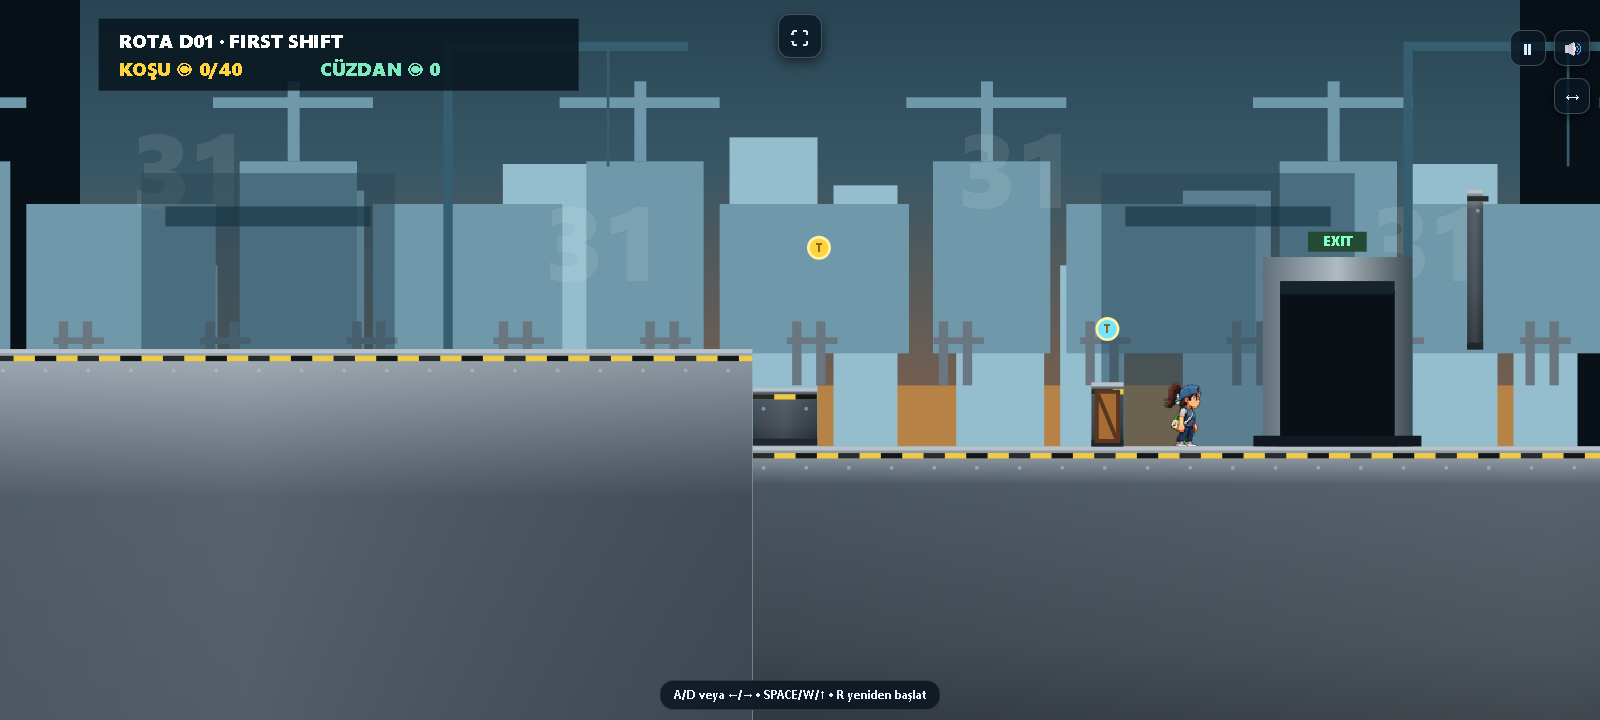
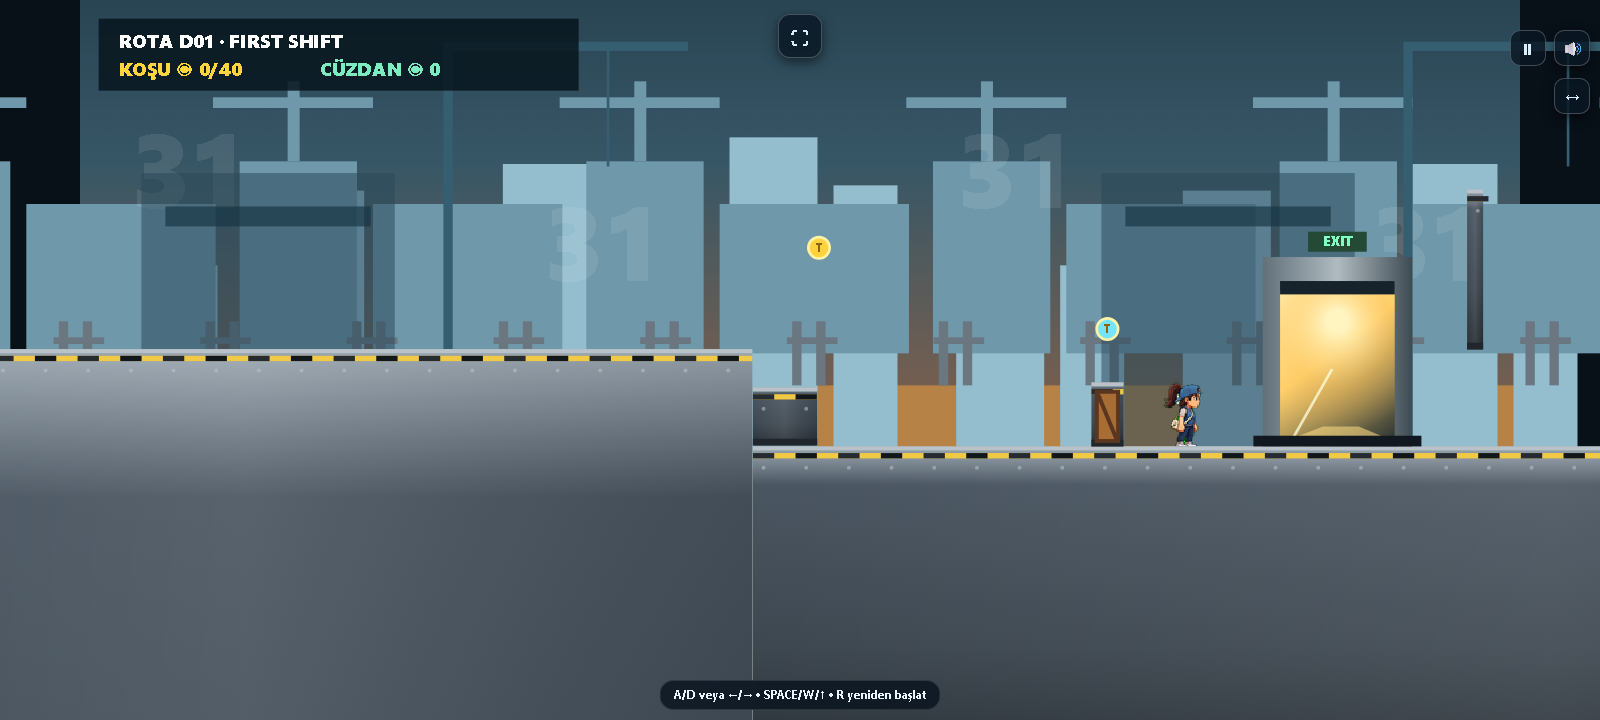
Make finish door states distinct

Changed region(s): [[0.7812, 0.3972, 0.875, 0.6111]]

diff --git a/js/a12-campaign.js b/js/a12-campaign.js
@@ -2490,8 +2490,39 @@ applyD09LogicRulesToRoutes();
     const closeK = tGate.phase === "closed" ? 1 : tGate.phase === "closing" ? Math.min(1, tGate.t / tGate.closeS) : 0;
     const left = x - 74, top = y - 142, w = 112, h = 142;
     c.save();
-    c.fillStyle = "#0a1116";
+    if (opts.shutterOnly) {
+      drawFinishDoorShutter(c, left, top, w, h, closeK);
+      c.restore();
+      return;
+    }
+    const interior = c.createLinearGradient(left + 11, top + 25, left + w - 11, y);
+    interior.addColorStop(0, closeK >= 1 ? "#101820" : "#fff3bb");
+    interior.addColorStop(.42, closeK >= 1 ? "#18252d" : "#ffd16d");
+    interior.addColorStop(1, closeK >= 1 ? "#05090d" : "#1d2a2f");
+    c.fillStyle = interior;
     c.fillRect(left + 11, top + 25, w - 22, h - 25);
+    if (closeK < .98) {
+      const glow = c.createRadialGradient(left + 56, top + 48, 8, left + 56, top + 62, 70);
+      glow.addColorStop(0, "rgba(255,247,198,.92)");
+      glow.addColorStop(.55, "rgba(255,195,89,.34)");
+      glow.addColorStop(1, "rgba(255,195,89,0)");
+      c.fillStyle = glow;
+      c.fillRect(left + 11, top + 25, w - 22, h - 25);
+      c.fillStyle = "rgba(255,222,132,.56)";
+      c.beginPath();
+      c.moveTo(left + 45, y - 15);
+      c.lineTo(left + 72, y - 15);
+      c.lineTo(left + 103, y - 2);
+      c.lineTo(left + 12, y - 2);
+      c.closePath();
+      c.fill();
+      c.strokeStyle = "rgba(255,255,221,.75)";
+      c.lineWidth = 2;
+      c.beginPath();
+      c.moveTo(left + 52, y - 58);
+      c.lineTo(left + 22, y - 5);
+      c.stroke();
+    }
     const frame = c.createLinearGradient(left, top, left + w, top);
     frame.addColorStop(0, "#61707a");
     frame.addColorStop(.5, "#b0bbc0");
@@ -2502,34 +2533,66 @@ applyD09LogicRulesToRoutes();
     c.fillRect(left, top, w, 18);
     c.fillStyle = "#17232a";
     c.fillRect(left + 13, top + 18, w - 26, 10);
-    const shutterH = (h - 31) * closeK;
-    if (shutterH > 0) {
-      const sy = top + 28;
-      const g = c.createLinearGradient(left + 15, sy, left + w - 15, sy);
-      g.addColorStop(0, "#465760");
-      g.addColorStop(.45, "#87949a");
-      g.addColorStop(1, "#34434b");
-      c.fillStyle = g;
-      c.fillRect(left + 15, sy, w - 30, shutterH);
-      c.strokeStyle = "#b7c2c7";
-      c.lineWidth = 1.5;
-      for (let yy = sy + 10; yy < sy + shutterH; yy += 13) {
-        c.beginPath();
-        c.moveTo(left + 17, yy);
-        c.lineTo(left + w - 17, yy);
-        c.stroke();
-      }
-    }
+    drawFinishDoorShutter(c, left, top, w, h, closeK);
     c.fillStyle = "#244a35";
     c.fillRect(left + 34, top - 19, 44, 15);
-    c.fillStyle = closeK >= 1 ? "#ff6b62" : "#80ffc0";
-    c.font = "900 10px system-ui";
+    c.fillStyle = closeK >= 1 ? "#ff5148" : "#80ffc0";
+    c.font = closeK >= 1 ? "900 8px system-ui" : "900 10px system-ui";
     c.textAlign = "center";
-    c.fillText("EXIT", left + 56, top - 8);
+    c.fillText(closeK >= 1 ? "KAPANDI" : "EXIT", left + 56, top - 8);
     c.textAlign = "left";
     c.fillStyle = "#111820";
     c.fillRect(left - 7, y - 8, w + 14, 8);
     c.restore();
+  }
+  function drawFinishDoorShutter(c, left, top, w, h, closeK) {
+    const shutterH = (h - 31) * closeK;
+    if (shutterH <= 0) return;
+    const sy = top + 28;
+    const panelW = w - 30;
+    const g = c.createLinearGradient(left + 15, sy, left + w - 15, sy);
+    g.addColorStop(0, "#6f7d84");
+    g.addColorStop(.18, "#d5dde1");
+    g.addColorStop(.48, "#9facb3");
+    g.addColorStop(.72, "#eef3f4");
+    g.addColorStop(1, "#56646c");
+    c.fillStyle = g;
+    c.fillRect(left + 15, sy, panelW, shutterH);
+    c.strokeStyle = "rgba(39,52,60,.8)";
+    c.lineWidth = 1.4;
+    for (let yy = sy + 8; yy < sy + shutterH; yy += 10) {
+      c.beginPath();
+      c.moveTo(left + 17, yy);
+      c.lineTo(left + w - 17, yy);
+      c.stroke();
+      c.strokeStyle = "rgba(255,255,255,.45)";
+      c.beginPath();
+      c.moveTo(left + 17, yy + 2);
+      c.lineTo(left + w - 17, yy + 2);
+      c.stroke();
+      c.strokeStyle = "rgba(39,52,60,.8)";
+    }
+    const bottomY = sy + shutterH - 9;
+    if (shutterH >= 12) {
+      c.fillStyle = "#f5c542";
+      c.fillRect(left + 15, bottomY, panelW, 9);
+      c.save();
+      c.beginPath();
+      c.rect(left + 15, bottomY, panelW, 9);
+      c.clip();
+      c.strokeStyle = "#1a1f22";
+      c.lineWidth = 5;
+      for (let sx = left - 4; sx < left + w; sx += 16) {
+        c.beginPath();
+        c.moveTo(sx, bottomY + 11);
+        c.lineTo(sx + 18, bottomY - 2);
+        c.stroke();
+      }
+      c.restore();
+    }
+    c.strokeStyle = "#24323a";
+    c.lineWidth = 2;
+    c.strokeRect(left + 15, sy, panelW, shutterH);
   }
   function drawCampaign() {
     ctx.setTransform(dpr, 0, 0, dpr, 0, 0);
@@ -2646,6 +2709,7 @@ applyD09LogicRulesToRoutes();
         profile.equippedOutfitByRunner[profile.runnerId],
         frontFlip.active ? frontFlip.angle : 0,
       );ctx.restore();}
+    drawFinishDoor(ctx, route.finishX, finishY, { shutterOnly: true });
     ctx.restore();
     drawHud();
     if (respawnT > 0) {
@@ -3585,7 +3649,7 @@ applyD09LogicRulesToRoutes();
       c.restore();
     }
     const finishY=routeGroundYAt(route.finishX);
-      drawFinishDoor(c, route.finishX, finishY, { gate: { phase: "open", t: 0, closeS: .52 } });
+      drawFinishDoor(c, route.finishX, finishY);
   }
   // A5b decorative layer: no RNG, collisions, profile or simulation writes.
   function presentationNpcs() {

diff --git a/03-test/manager-preview/finis-kapi/ozet.md b/03-test/manager-preview/finis-kapi/ozet.md
@@ -3,7 +3,15 @@
 - Branch/worktree: `kapi-sonraki-1007` / `E:/oyunlar/TrustMeBro-wt/kapi-sonraki`
 - Base: `a2e3e66` (`origin/master`, live)
 - Onceki commit: `4b7511a`
+- Akis commit: `75359d5`
 - Yeni commit: bu dosyanin icindeki commit (`git log -1 --oneline`)
+
+## Gorsel kabul fix
+
+- Akis degismedi; sadece finish kapisi cizimi guncellendi.
+- Acik kapi artik sicak sari/beyaz ic mekan isigi ve zeminde isik izi gosteriyor.
+- Giris karesinde celik gri roll-up shutter yukaridan asagi kayiyor; yatay slat cizgileri ve alt kenarda sari-siyah ikaz seridi var.
+- Kapali kapi artik acik halinden net farkli: shutter kapinin tamamini kapatiyor ve ust lamba kirmizi `KAPANDI` durumuna geciyor.
 
 ## Akis fix
 
@@ -24,6 +32,7 @@
 - iPhone landscape: `iphone-landscape-kapi-acik.png`, `iphone-landscape-kapi-giris.png`, `iphone-landscape-kapi-kapandi.png`
 - Magma ornegi: `magma-kapi-acik.png`
 - Eski ad uyumlulugu: `kapi-acik.png`, `kapi-kapandi.png`
+- Karsilastirma: `kapi-acik-kapali-yanyana.png`
 - NEXT: `sonraki-click-once.png`, `sonraki-click-after.png`
 
 ## Testler
